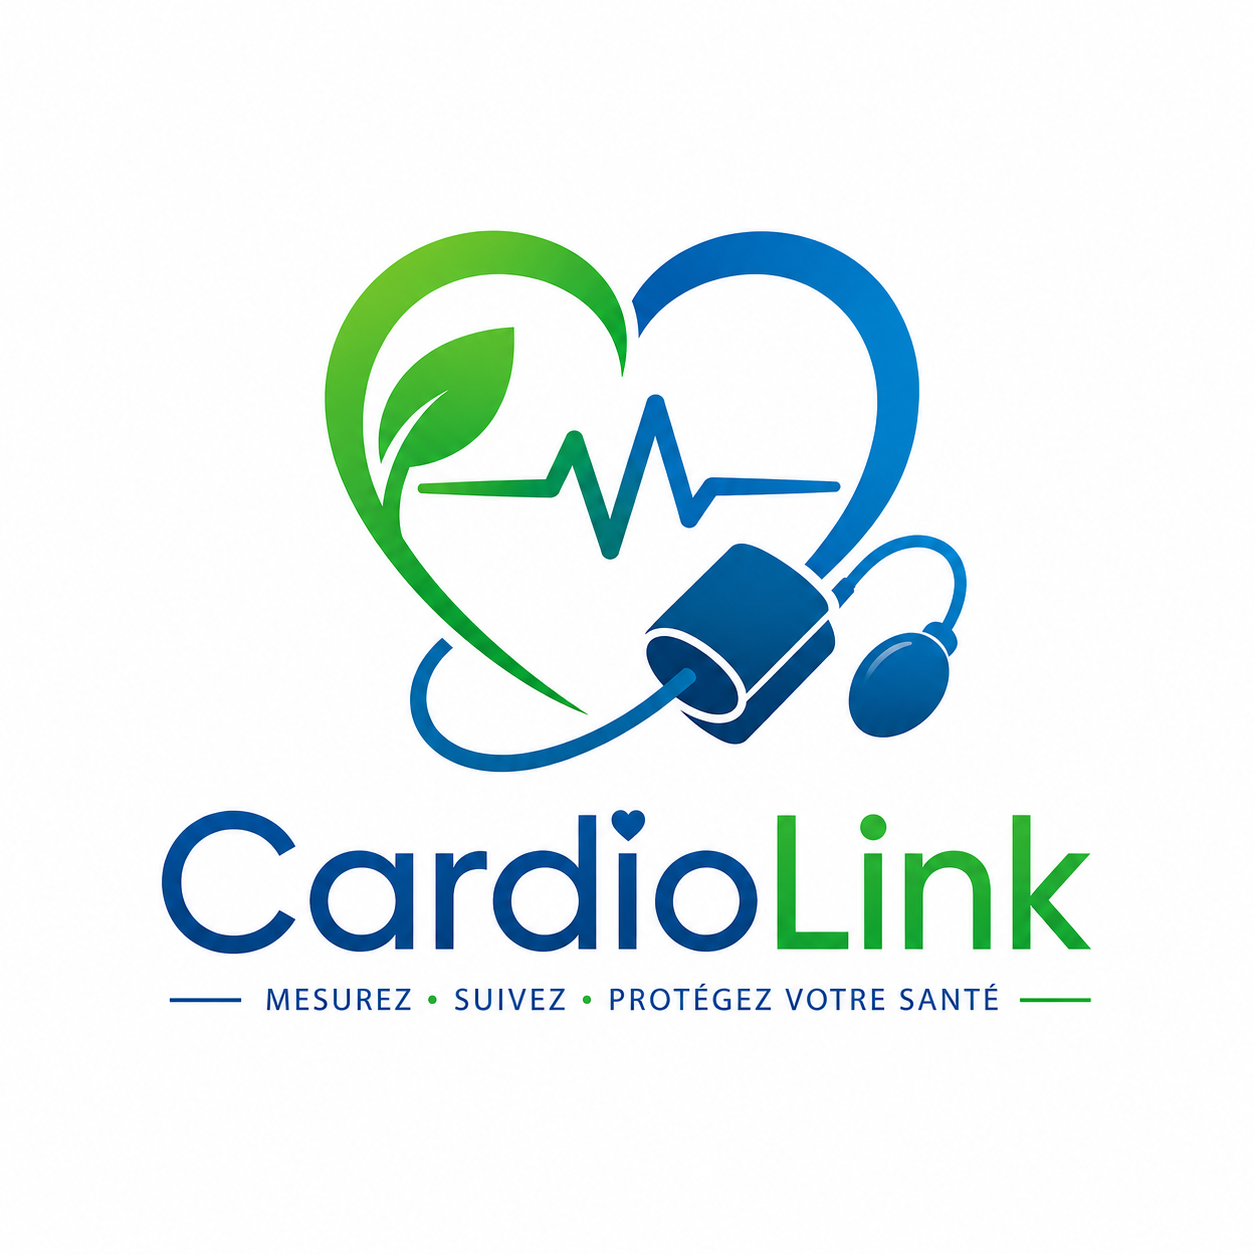
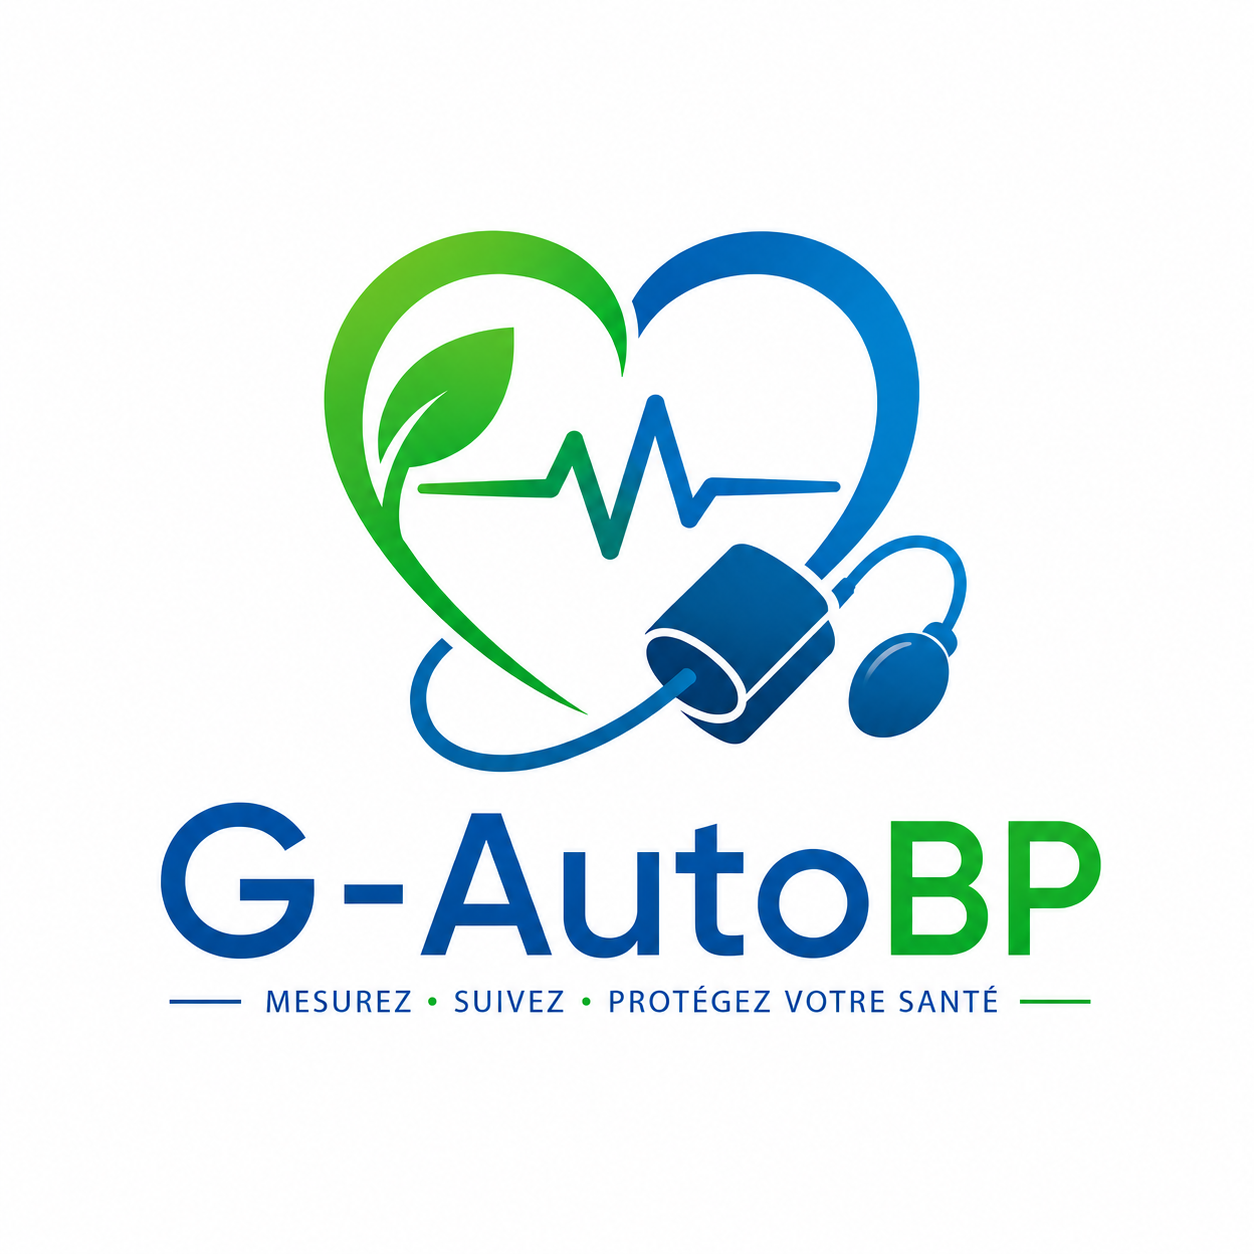
moyenne

Changed region(s): [[0.1244, 0.622, 0.9019, 0.8086]]

diff --git a/mobile/automesure/lib/features/home/providers/home_provider.dart b/mobile/automesure/lib/features/home/providers/home_provider.dart
@@ -11,7 +11,7 @@ class DerniereMesure {
   final String sessionId;
   final String periode;
   final int jour;
-  final int numeroMesure;
+  final int? numeroMesure;
   final DateTime priseLE;
 
   const DerniereMesure({
@@ -22,7 +22,7 @@ class DerniereMesure {
     required this.sessionId,
     required this.periode,
     required this.jour,
-    required this.numeroMesure,
+    this.numeroMesure,
     required this.priseLE,
   });
 
@@ -78,16 +78,15 @@ class HomeNotifier extends StateNotifier<HomeState> {
   HomeNotifier(this._api) : super(const HomeState());
 
   Future<void> charger(int patientId) async {
+    print('[HOME] charger patientId=$patientId');
     state = state.copyWith(isLoading: true, patientId: patientId);
     try {
-      final response = await _api.get(
-        ApiEndpoints.mesuresPatient(patientId),
-      );
+      // 1. Mesures du patient (pour le compteur du jour)
+      final response = await _api.get(ApiEndpoints.mesuresPatient(patientId));
       final mesures = (response.data as List)
           .map((m) => DerniereMesure.fromJson(m))
           .toList();
 
-      // Compter les mesures d'aujourd'hui
       final today = DateTime.now();
       final mesuresAujourdhui = mesures.where((m) {
         return m.priseLE.year == today.year &&
@@ -95,13 +94,23 @@ class HomeNotifier extends StateNotifier<HomeState> {
             m.priseLE.day == today.day;
       }).length;
 
+      // 2. Moyenne du dernier créneau complet (null si aucun)
+      DerniereMesure? moyenne;
+      final respMoy = await _api.get(ApiEndpoints.moyenneCreneau(patientId));
+      print('[HOME] moyenne réponse = ${respMoy.data}');
+      if (respMoy.data != null) {
+        moyenne = DerniereMesure.fromJson(respMoy.data);
+      }
+
+      // 3. Mise à jour de l'état
       state = state.copyWith(
         isLoading: false,
-        derniereMesure: mesures.isNotEmpty ? mesures.first : null,
+        derniereMesure: moyenne,
         nombreMesuresAujourdhui: mesuresAujourdhui,
         patientId: patientId,
       );
     } catch (e) {
+      print('[HOME] ERREUR = $e');
       state = state.copyWith(isLoading: false, error: e.toString());
     }
   }

diff --git a/mobile/automesure/lib/features/home/widgets/derniere_mesure_card.dart b/mobile/automesure/lib/features/home/widgets/derniere_mesure_card.dart
@@ -55,14 +55,8 @@ class DerniereMesureCard extends StatelessWidget {
             children: [
               const Text('📊', style: TextStyle(fontSize: 40)),
               const SizedBox(height: 8),
-              Text(
-                'Aucune mesure encore',
-                style: AppTextStyles.body,
-              ),
-              Text(
-                'Prenez votre première mesure',
-                style: AppTextStyles.caption,
-              ),
+             Text('Créneau en cours', style: AppTextStyles.body),
+              Text('La moyenne s\'affichera après 3 mesures', style: AppTextStyles.caption),
             ],
           ),
         ),
@@ -92,7 +86,7 @@ class DerniereMesureCard extends StatelessWidget {
                 crossAxisAlignment: CrossAxisAlignment.start,
                 children: [
                   Text(
-                    'DERNIÈRE MESURE',
+                    'MOYENNE DE LA DERNIÈRE MESURE',
                     style: AppTextStyles.caption.copyWith(
                       letterSpacing: 1.2,
                       fontWeight: FontWeight.w600,

diff --git a/mobile/automesure/lib/features/home/screens/home_screen.dart b/mobile/automesure/lib/features/home/screens/home_screen.dart
@@ -67,7 +67,7 @@ class _HomeScreenState extends ConsumerState<HomeScreen> {
                             ),
                           ),
                           Text(
-                            'Suivi tension',
+                            'AutoMesure de la TA',
                             style: AppTextStyles.heading2.copyWith(
                               color: AppColors.primary,
                             ),

diff --git a/mobile/automesure/lib/core/network/api_endpoints.dart b/mobile/automesure/lib/core/network/api_endpoints.dart
@@ -36,4 +36,5 @@ class ApiEndpoints {
   static String sessionMedicament(String sessionId) => '/sessions/$sessionId/medicament';
   static String validerQRCode(String token) =>
     '/qrcodes/valider/$token';
+  static String moyenneCreneau(int patientId) => '/mesures/$patientId/moyenne-creneau';
 }

diff --git a/app/application/use_cases/mesure/obtenir_moyenne_dernier_creneau.py b/app/application/use_cases/mesure/obtenir_moyenne_dernier_creneau.py
@@ -1,0 +1,80 @@
+from sqlalchemy import select
+
+from app.core.exceptions import PatientNotFoundError
+from app.domain.services.analyseur_ta import AnalyseurTA
+from app.domain.value_objects.tension_arterielle import TensionArterielle
+from app.infrastructure.db.session import AsyncSessionFactory
+from app.infrastructure.models.bp.mesure import MesureModel
+from app.infrastructure.models.bp.patient import PatientModel
+from app.infrastructure.services.config_service import ConfigService
+
+
+class ObtenirMoyenneDernierCreneauUseCase:
+    """Moyenne du dernier créneau COMPLET (3 mesures) du patient, catégorisée."""
+
+    async def executer(self, patient_id: int) -> dict | None:
+        async with AsyncSessionFactory() as session:
+            # 1. Patient (patient_id = user_id)
+            lookup = await session.execute(
+                select(PatientModel).where(PatientModel.user_id == patient_id)
+            )
+            patient = lookup.scalar_one_or_none()
+            if not patient:
+                raise PatientNotFoundError()
+
+            # 2. Seuils selon le profil (comme dans le use case de mesure)
+            seuils = await ConfigService.get_seuils(
+                patient.organisation_id or 1, patient.est_hypertendu
+            )
+            analyseur = AnalyseurTA(seuils)
+
+            # 3. Toutes les mesures du patient, les plus récentes d'abord
+            result = await session.execute(
+                select(MesureModel)
+                .where(MesureModel.patient_id == patient.id)
+                .order_by(MesureModel.prise_le.desc())
+            )
+            mesures = result.scalars().all()
+            if not mesures:
+                return None
+
+            # 4. Trouver le dernier créneau COMPLET (groupe session+jour+période avec 3 mesures)
+            #    On parcourt par ordre décroissant ; le 1er groupe de 3 trouvé est le plus récent.
+            groupes: dict[tuple, list] = {}
+            for m in mesures:
+                cle = (m.session_id, m.jour, m.periode)
+                groupes.setdefault(cle, []).append(m)
+
+            # garder l'ordre : la mesure la plus récente donne le créneau le plus récent
+            creneau_mesures = None
+            for m in mesures:
+                cle = (m.session_id, m.jour, m.periode)
+                if len(groupes[cle]) >= 3:
+                    creneau_mesures = groupes[cle][:3]
+                    break
+
+            if not creneau_mesures:
+                return None  # aucun créneau complet → le front affichera "en cours"
+
+            # 5. Moyenne du créneau
+            moy_sys = round(sum(m.systolique for m in creneau_mesures) / 3)
+            moy_dia = round(sum(m.diastolique for m in creneau_mesures) / 3)
+            pouls = [m.pouls for m in creneau_mesures if m.pouls]
+            moy_pouls = round(sum(pouls) / len(pouls)) if pouls else None
+
+            tension = TensionArterielle(
+                systolique=moy_sys, diastolique=moy_dia, pouls=moy_pouls
+            )
+            categorie = analyseur.categoriser(tension)
+            ref = creneau_mesures[0]  # la plus récente du créneau
+
+            return {
+                "systolique": moy_sys,
+                "diastolique": moy_dia,
+                "pouls": moy_pouls,
+                "categorie": categorie.value,
+                "session_id": ref.session_id,
+                "periode": ref.periode.value,
+                "jour": ref.jour,
+                "prise_le": ref.prise_le.isoformat(),
+            }

diff --git a/app/interfaces/routes/mesures.py b/app/interfaces/routes/mesures.py
@@ -3,6 +3,7 @@ from fastapi import APIRouter, Depends, HTTPException, status
 from app.application.dtos.mesure_dto import CreerMesureDTO
 from app.application.use_cases.mesure.creer_mesure import CreerMesureUseCase
 from app.application.use_cases.mesure.lister_mesures import ListerMesuresUseCase
+from app.application.use_cases.mesure.obtenir_moyenne_dernier_creneau import ObtenirMoyenneDernierCreneauUseCase
 from app.application.use_cases.mesure.obtenir_resume import ObtenirResumeUseCase
 from app.core.exceptions import BPMonitorException
 from app.domain.enums.role_enum import RoleUtilisateur
@@ -63,8 +64,6 @@ async def lister_mesures(patient_id: int, current_user: UserModel = Depends(requ
         return await use_case.executer(patient_id)
     except BPMonitorException as e:
         raise HTTPException(status_code=e.status_code, detail=e.message)
-
-
 @router.get(
     "/resume/{patient_id}/{session_id}",
     response_model=ResumeSessionSchema,
@@ -80,3 +79,20 @@ async def obtenir_resume(patient_id: int, session_id: str, current_user: UserMod
         return await use_case.executer(patient_id, session_id)
     except BPMonitorException as e:
         raise HTTPException(status_code=e.status_code, detail=e.message)
+    
[email redacted](
+    "/{patient_id}/moyenne-creneau",
+    summary="Moyenne du dernier créneau complet (catégorisée)",
+)
+async def moyenne_dernier_creneau(
+    patient_id: int,
+    current_user: UserModel = Depends(
+        require_any_role(RoleUtilisateur.PATIENT, RoleUtilisateur.MEDECIN, RoleUtilisateur.ADMIN , RoleUtilisateur.SECRETAIRE , RoleUtilisateur.SUPER_ADMIN)
+    ),
+):
+    try:
+        use_case = ObtenirMoyenneDernierCreneauUseCase()
+        return await use_case.executer(patient_id)
+    except BPMonitorException as e:
+        raise HTTPException(status_code=e.status_code, detail=e.message)
+    